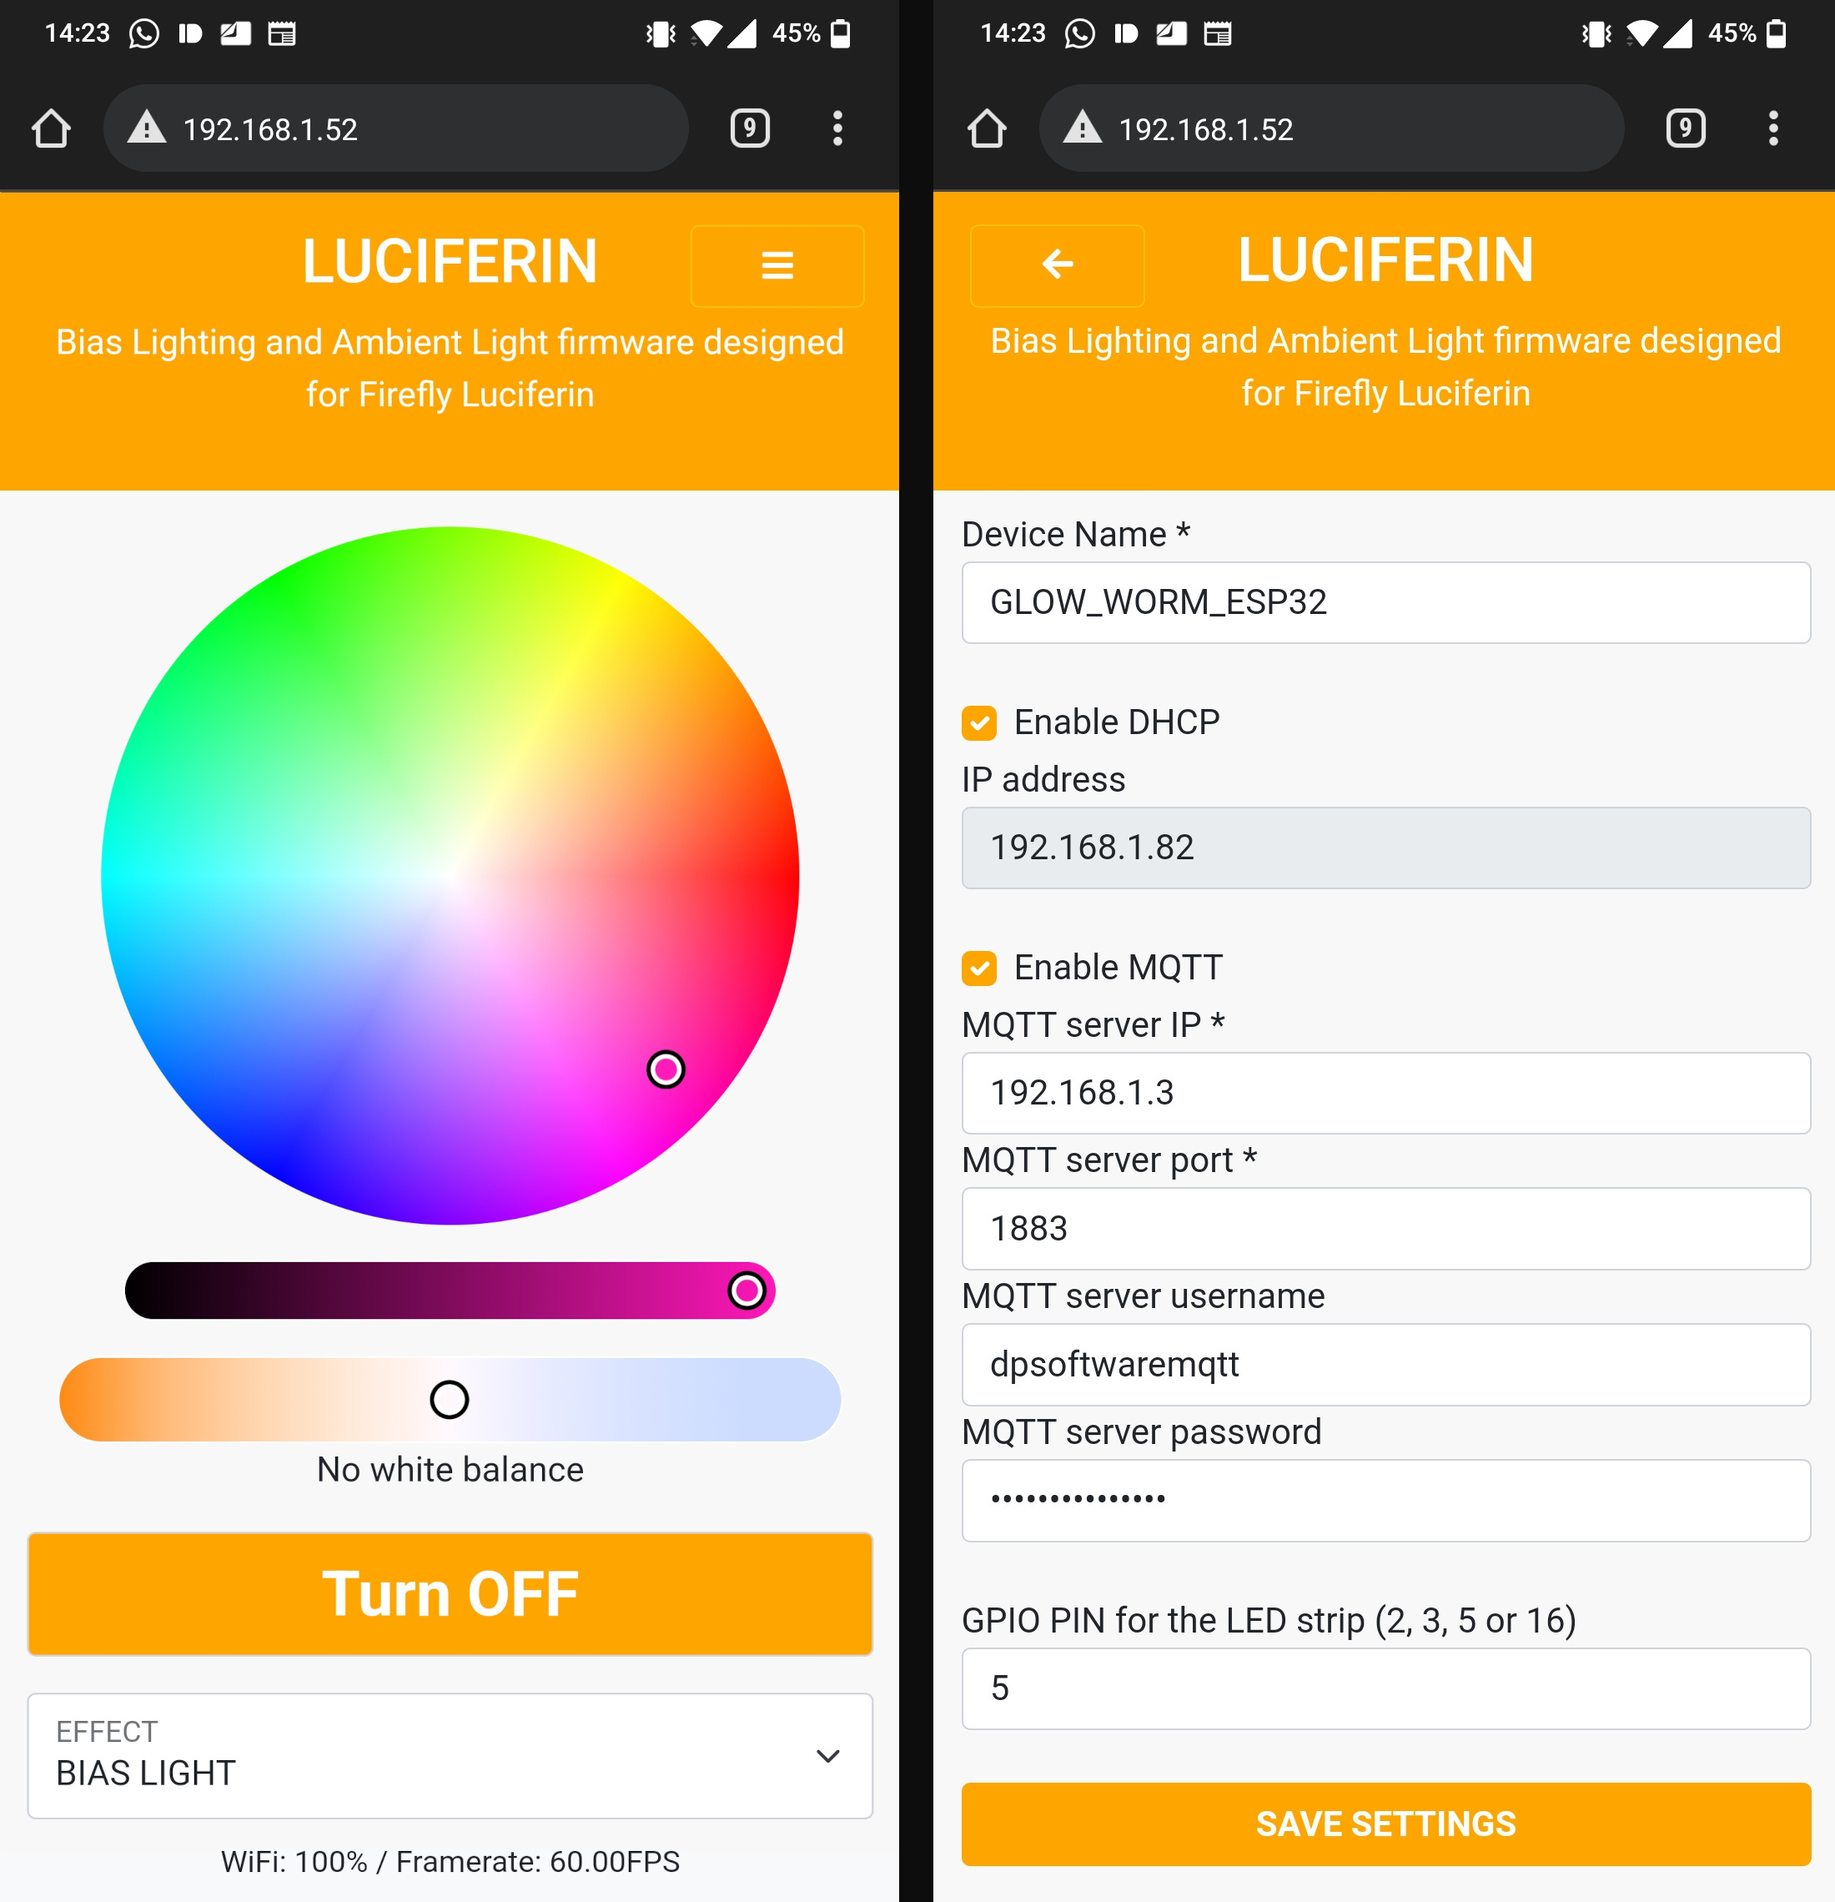
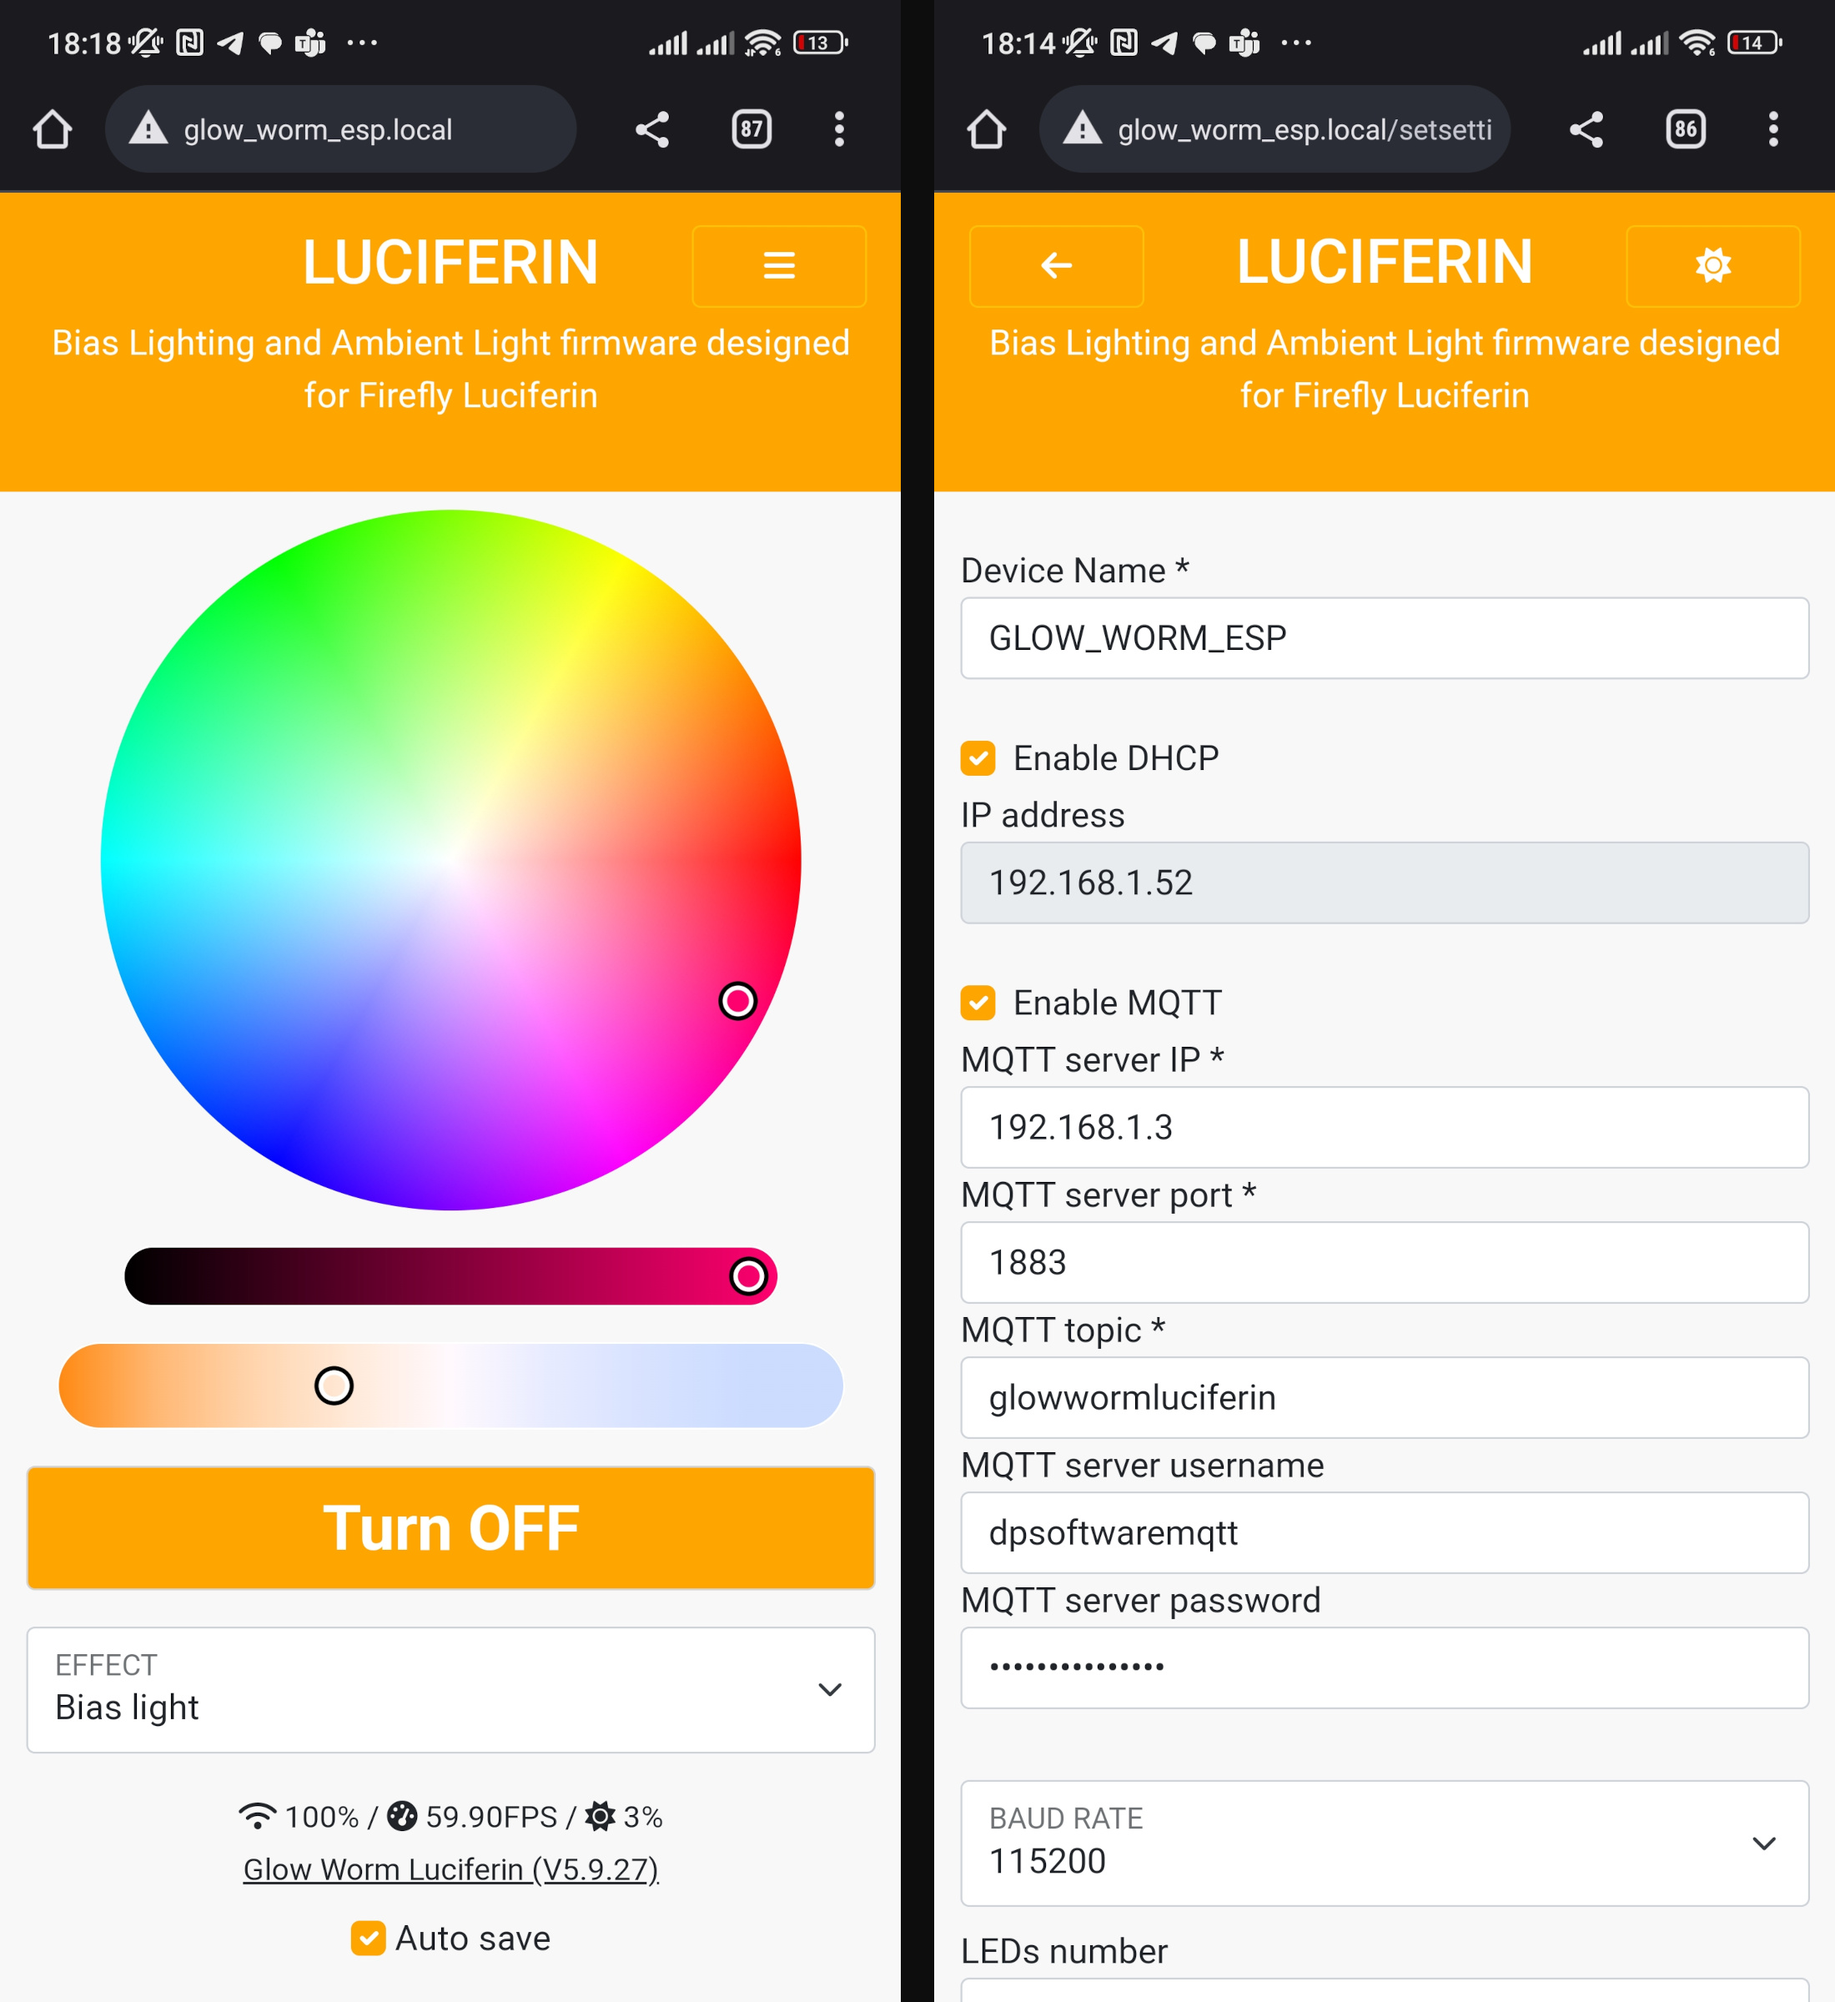
auto save

diff --git a/include/WebSettings.h b/include/WebSettings.h
@@ -21,7 +21,7 @@
 #ifndef GLOW_WORM_LUCIFERIN_WEBSETTINGS_H
 #define GLOW_WORM_LUCIFERIN_WEBSETTINGS_H
 
-const char settingsPage[] PROGMEM = R"=====(<!DOCTYPE html><html><head><title>LUCIFERIN Web Interface</title> <meta charset='utf-8'> <meta name='viewport' content='width=device-width, initial-scale=1'> <link rel="icon" type="image/png" href="https://sblantipodi.github.io/glow_worm_luciferin/static/logos/luciferin_logo.png"> <script src='https://sblantipodi.github.io/glow_worm_luciferin/third_party_scripts/jquery-3.6.0.slim.min.js' integrity='sha256-u7e5khyithlIdTpu22PHhENmPcRdFiHRjhAuHcs05RI=' crossorigin='anonymous'></script> <link href='https://sblantipodi.github.io/glow_worm_luciferin/third_party_scripts/bootstrap.min.css' rel='stylesheet'> <script src='https://sblantipodi.github.io/glow_worm_luciferin/third_party_scripts/bootstrap.bundle.min.js'></script> <script src='https://sblantipodi.github.io/glow_worm_luciferin/third_party_scripts/iro5_2_2.js'></script> <link href='https://sblantipodi.github.io/glow_worm_luciferin/fa6/css/all.css' rel='stylesheet'> <link href='https://sblantipodi.github.io/glow_worm_luciferin/webInterface_1.1.0.slim.min.css' rel='stylesheet'></head><body><div class='container-fluid p-3 bg-primary text-white text-center sticky-top'><h1>LUCIFERIN</h1> <p id="subtitle"></p></div><div class='container'> <div class='row'> <div class='col' class='margin-2'> <form> <button onclick="window.location.href='setsettings'" type="button" class="btn right-btn btn-outline-warning waves-effect px-3 sticky-top position-fixed"><i class="fas fa-bars" aria-hidden="true"></i></button> <div class='form-group row'> <div class='col-sm-12'> <div class='wrap'> <div id='picker'></div></div><div class='wrap slider-margin'> <div class="ColorPicker" id='brightnessSlider'></div></div><div class='wrap slider-margin'> <div class="ColorPicker" id="kelvinPicker"></div></div><div id="ut" class='wrap'></div></div><div class='col-sm-12'> <button id='toggleLED' type='button' class='btn btn-primary' data-bs-toggle='button' autocomplete='off'>Turn ON </button> </div><div class='col-sm-12'> <div class='form-floating'><select class='form-select' id='effectSelect'> </select> <label for='effectSelect'>EFFECT</label></div></div></div></form> </div></div></div><footer> <div class='text-center'><small> <i class="fa-solid fa-wifi"></i> <span id='wifi'>_</span>/ <i class="fa-solid fa-gauge-high"></i> <span id='fps'>_</span><span id="ldrgrp"> / <i class="fa-solid fa-sun"></i> <span id='ldr'>_</span></span><br><a id='gitlink' class='text-dark' href='https://github.com/sblantipodi/'>_</a></small> </div></footer><script src='https://sblantipodi.github.io/glow_worm_luciferin/webInterface_1.3.0.slim.min.js'></script></body></html>)=====";
+const char settingsPage[] PROGMEM = R"=====(<!DOCTYPE html><html><head><title>LUCIFERIN Web Interface</title> <meta charset='utf-8'> <meta name='viewport' content='width=device-width, initial-scale=1'> <link rel="icon" type="image/png" href="https://sblantipodi.github.io/glow_worm_luciferin/static/logos/luciferin_logo.png"> <script src='https://sblantipodi.github.io/glow_worm_luciferin/third_party_scripts/jquery-3.6.0.slim.min.js' integrity='sha256-u7e5khyithlIdTpu22PHhENmPcRdFiHRjhAuHcs05RI=' crossorigin='anonymous'></script> <link href='https://sblantipodi.github.io/glow_worm_luciferin/third_party_scripts/bootstrap.min.css' rel='stylesheet'> <script src='https://sblantipodi.github.io/glow_worm_luciferin/third_party_scripts/bootstrap.bundle.min.js'></script> <script src='https://sblantipodi.github.io/glow_worm_luciferin/third_party_scripts/iro5_2_2.js'></script> <link href='https://sblantipodi.github.io/glow_worm_luciferin/fa6/css/all.css' rel='stylesheet'> <link href='https://sblantipodi.github.io/glow_worm_luciferin/webInterface_1.1.1.slim.min.css' rel='stylesheet'></head><body><div class='container-fluid p-3 bg-primary text-white text-center sticky-top'><h1>LUCIFERIN</h1> <p id="subtitle"></p></div><div class='container'> <div class='row'> <div class='col' class='margin-2'> <form> <button onclick="window.location.href='setsettings'" type="button" class="btn right-btn btn-outline-warning waves-effect px-3 sticky-top position-fixed"><i class="fas fa-bars" aria-hidden="true"></i></button> <div class='form-group row'> <div class='col-sm-12'> <div class='wrap'> <div id='picker'></div></div><div class='wrap slider-margin'> <div class="ColorPicker" id='brightnessSlider'></div></div><div class='wrap slider-margin'> <div class="ColorPicker" id="kelvinPicker"></div></div><div id="ut" class='wrap'></div></div><div class='col-sm-12'> <button id='toggleLED' type='button' class='btn btn-primary' data-bs-toggle='button' autocomplete='off'>Turn ON </button> </div><div class='col-sm-12'> <div class='form-floating'><select class='form-select' id='effectSelect'> </select> <label for='effectSelect'>EFFECT</label></div></div></div></form> </div></div></div><footer> <div class='text-center'><small> <i class="fa-solid fa-wifi"></i> <span id='wifi'>_</span>/ <i class="fa-solid fa-gauge-high"></i> <span id='fps'>_</span><span id="ldrgrp"> / <i class="fa-solid fa-sun"></i> <span id='ldr'>_</span></span><br><a id='gitlink' class='text-dark' href='https://github.com/sblantipodi/'>_</a></small> <div class="mgntop-small"><input type="checkbox" class="form-check-input" id="autosave" checked=""> <label class="form-check-label" for="autosave"> Auto save</label></div></div></footer><script src='https://sblantipodi.github.io/glow_worm_luciferin/webInterface_1.4.0.slim.min.js'></script><script>const cbAs=document.getElementById('autosave');cbAs.onclick=()=>{asCBAction(cbAs);};</script></body></html>)=====";
 
 const char setSettingsPage[] PROGMEM = R"=====(<!DOCTYPE html><html><head><title>LUCIFERIN Web Interface</title> <meta charset='utf-8'> <meta name='viewport' content='width=device-width, initial-scale=1'> <link rel="icon" type="image/png" href="https://sblantipodi.github.io/glow_worm_luciferin/static/logos/luciferin_logo.png"> <script src='https://sblantipodi.github.io/glow_worm_luciferin/third_party_scripts/jquery-3.6.0.slim.min.js' integrity='sha256-u7e5khyithlIdTpu22PHhENmPcRdFiHRjhAuHcs05RI=' crossorigin='anonymous'></script> <link href='https://sblantipodi.github.io/glow_worm_luciferin/third_party_scripts/bootstrap.min.css' rel='stylesheet'> <script src='https://sblantipodi.github.io/glow_worm_luciferin/third_party_scripts/bootstrap.bundle.min.js'></script> <script src='https://sblantipodi.github.io/glow_worm_luciferin/third_party_scripts/iro5_2_2.js'></script> <link href='https://sblantipodi.github.io/glow_worm_luciferin/fa6/css/all.css' rel='stylesheet'> <link href='https://sblantipodi.github.io/glow_worm_luciferin/webInterface_1.1.0.slim.min.css' rel='stylesheet'></head><body><div class='container-fluid p-3 bg-primary text-white text-center sticky-top'><h1>LUCIFERIN</h1> <p>Bias Lighting and Ambient Light firmware designed for Firefly Luciferin </p></div><div class='container'> <div class='row'> <div class='col' class=margin-2'> <button onclick="window.location.href='setldr'" type="button" class="btn right-btn btn-outline-warning waves-effect px-3 sticky-top position-fixed"><i class="fas fa-sun"></i></button> <form onsubmit='callDevice(); return false;'><br><div class="form-group"><label for="deviceName">Device Name *</label> <input type="deviceName" class="form-control" id="deviceName" aria-describedby="deviceName" required></div><br><div class="form-check"><input type="checkbox" class="form-check-input" id="dhcpCheckbox" checked> <label class="form-check-label" for="dhcpCheckbox">Enable DHCP</label></div><div id='dhcpclass'> <div class="form-group"><label for="microcontrollerIP">IP address</label> <input type="text" class="form-control" id="microcontrollerIP"> </div></div><br><div class="form-check"><input type="checkbox" class="form-check-input" id="mqttCheckbox" checked> <label class="form-check-label" for="mqttCheckbox">Enable MQTT</label></div><div id='mqttclass'> <div class="form-group"><label for="inputMqttIp">MQTT server IP *</label> <input type="text" class="form-control" id="inputMqttIp"> </div><div class="form-group"><label for="mqttPort">MQTT server port *</label> <input type="text" class="form-control" id="mqttPort"></div><div class="form-group"><label for="mqttTopic">MQTT topic *</label> <input type="text" class="form-control" id="mqttTopic"></div><div class="form-group"><label for="mqttuser">MQTT server username</label> <input type="text" class="form-control" id="mqttuser"> </div><div class="form-group"><label for="mqttpass">MQTT server password</label> <input type="password" class="form-control" id="mqttpass"> </div></div><br><div class='col-sm-12'> <div class='form-floating'><select class='form-select' id='br'> </select> <label for='br'>BAUD RATE</label></div></div><div class="form-group"><label for="lednum">LEDs number</label> <input type="lednum" class="form-control" id="lednum"> </div><div class="form-group"><label for="additionalParam">GPIO PIN for the LED strip (2, 3, 5 or 16)</label> <input type="additionalParam" class="form-control" id="additionalParam"></div><div class='col-sm-12'> <div class='form-floating'><select class='form-select' id='colorMode'> </select> <label for='colorMode'>COLOR MODE</label></div></div><br><button type="submit" class="btn btn-orange"> SAVE SETTINGS</button> <button onclick="window.location.href='/'" type="button" class="btn back-btn btn-outline-warning waves-effect px-3 sticky-top position-fixed"><i class="fas fa-arrow-left" aria-hidden="true"></i></button> <br><br><br></form> </div></div></div><script src='https://sblantipodi.github.io/glow_worm_luciferin/webInterfaceSettings_1.2.0.slim.min.js'></script><script>const cbMqtt=document.getElementById('mqttCheckbox');const cbDhcp=document.getElementById('dhcpCheckbox');cbMqtt.onclick=()=>{mqttCheckboxAction(cbMqtt, cbDhcp);};cbDhcp.onclick=()=>{mqttCheckboxAction(cbMqtt, cbDhcp);};</script></body></html>)=====";
 

diff --git a/src/NetworkManager.cpp b/src/NetworkManager.cpp
@@ -226,6 +226,8 @@ void NetworkManager::listenOnHttpGet() {
       prefsData += BootstrapManager::getWifiQuality();
       prefsData += F("\",\"framerate\":\"");
       prefsData += framerate;
+      prefsData += F("\",\"autosave\":\"");
+      prefsData += autoSave;
       if (ldrEnabled) {
         prefsData += F("\",\"ldr\":\"");
         prefsData += ((ldrValue * 100) / ldrDivider);
@@ -284,6 +286,16 @@ void NetworkManager::listenOnHttpGet() {
   server.on(F("/setldr"), []() {
       stopUDP();
       server.send(200, F("text/html"), setLdrPage);
+      startUDP();
+  });
+  server.on(F("/setAutoSave"), []() {
+      stopUDP();
+      autoSave = server.arg(F("autosave")).toInt();
+      DynamicJsonDocument asDoc(1024);
+      asDoc[F("autosave")] = autoSave;
+      BootstrapManager::writeToLittleFS(asDoc, AUTO_SAVE_FILENAME);
+      delay(20);
+      server.send(200, F("text/html"), F("Stored"));
       startUDP();
   });
   server.on(F("/ldr"), []() {
@@ -786,7 +798,7 @@ bool NetworkManager::processJson() {
     if (bootstrapManager.jsonDoc.containsKey("brightness")) {
       brightness = bootstrapManager.jsonDoc["brightness"];
     }
-    if (ledManager.red != rStored || ledManager.green != gStored || ledManager.blue != bStored || brightness != brightnessStored) {
+    if (autoSave && (ledManager.red != rStored || ledManager.green != gStored || ledManager.blue != bStored || brightness != brightnessStored)) {
       Globals::saveColorBrightnessInfo(ledManager.red, ledManager.green, ledManager.blue, brightness);
     }
     if (skipMacCheck) {

diff --git a/include/Globals.h b/include/Globals.h
@@ -58,6 +58,7 @@ extern byte rStored;
 extern byte gStored;
 extern byte bStored;
 extern byte brightnessStored;
+extern boolean autoSave;
 enum class Effect { GlowWormWifi, GlowWorm, solid, fire, twinkle, bpm, rainbow, chase_rainbow, solid_rainbow, mixed_rainbow };
 extern Effect effect;
 extern String ffeffect;
@@ -66,6 +67,7 @@ extern float framerateCounter;
 extern uint lastStream;
 const String GPIO_PARAM = "gpio";
 const String GPIO_FILENAME = "gpio.json";
+const String AUTO_SAVE_FILENAME = "as.json";
 const String COLOR_BRIGHT_FILENAME = "cb.json";
 const String BAUDRATE_PARAM = "baudrate";
 const String BAUDRATE_FILENAME = "baudrate.json";

diff --git a/src/GlowWormLuciferin.cpp b/src/GlowWormLuciferin.cpp
@@ -149,6 +149,10 @@ void setup() {
     brightness  = bootstrapManager.readValueFromFile(COLOR_BRIGHT_FILENAME, F("brightness")).toInt();
     brightnessStored = brightness;
   }
+  String as = bootstrapManager.readValueFromFile(AUTO_SAVE_FILENAME, F("autosave"));
+  if (!as.isEmpty() && r != ERROR && as.toInt() != -1) {
+    autoSave = bootstrapManager.readValueFromFile(AUTO_SAVE_FILENAME, F("autosave")).toInt();
+  }
 
 #if defined(ESP8266)
   pinMode(RELAY_PIN, OUTPUT);

diff --git a/src/Globals.cpp b/src/Globals.cpp
@@ -41,6 +41,7 @@ byte rStored;
 byte gStored;
 byte bStored;
 byte brightnessStored;
+boolean autoSave;
 Effect effect;
 String ffeffect;
 float framerate = 0;
